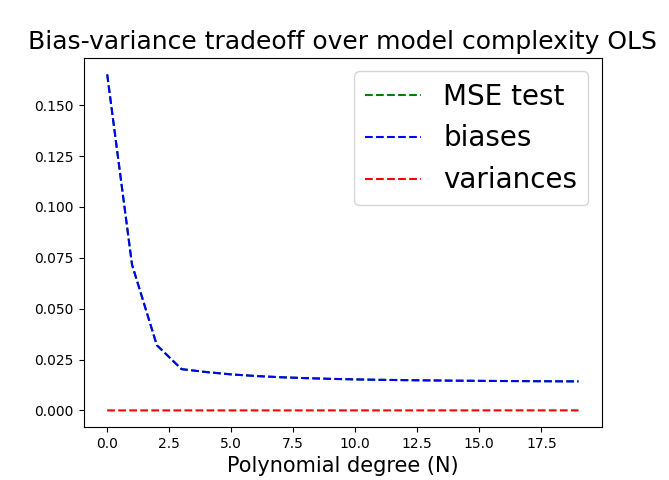
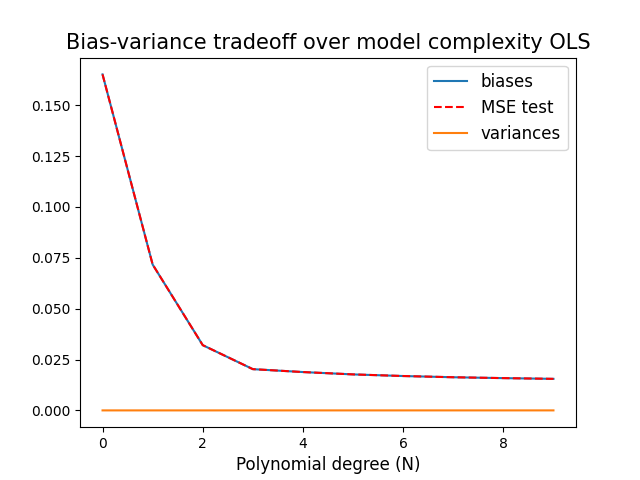
1AM plots real data

diff --git a/src/task_f_msecomparison.py b/src/task_f_msecomparison.py
@@ -1,6 +1,7 @@
 """
 task f: Plots MSE comparison between OLS, ridge and lasso with cross validation for real and synthetic data.
 """
+import numpy as np
 from sklearn.linear_model import Ridge, Lasso
 from sklearn.model_selection import cross_validate, KFold
 
@@ -31,6 +32,14 @@ kfolds = KFold(n_splits=K)
 errors_OLS = np.zeros(N)
 errors_Ridge = np.zeros(N)
 errors_Lasso = np.zeros(N)
+
+min_error_OLS = np.inf
+min_error_Ridge = np.inf
+min_error_Lasso = np.inf
+
+best_poly_OLS = 0
+best_poly_Ridge = 0
+best_poly_Lasso = 0
 
 # test different values of lambda
 for i in range(len(lambdas)):
@@ -76,6 +85,15 @@ for i in range(len(lambdas)):
         )
         errors_Lasso[n] = np.mean(-scores_Lasso["test_score"])
 
+    if min(min_error_OLS, np.min(scores_ols)) == np.min(scores_ols):
+        min_error_OLS = np.min(scores_ols)
+        best_poly_OLS = np.argmin(scores_ols)
+    if min(min_error_Ridge, np.min(scores_Ridge)) == np.min(scores_Ridge):
+        min_error_Ridge = np.min(scores_Ridge)
+        best_poly_Ridge = np.argmin(scores_Ridge)
+    if min(min_error_Lasso, np.min(scores_Lasso)) == np.min(scores_Lasso):
+        min_error_Lasso = np.min(scores_Lasso)
+        best_poly_Lasso = np.argmin(scores_Lasso)
     # plot
     plt.plot(errors_OLS, "r--", label="OLS")
     plt.plot(errors_Ridge, "b--", label="Ridge")
@@ -86,4 +104,7 @@ for i in range(len(lambdas)):
     plt.tight_layout(h_pad=0.001)
     plt.legend()
 
+print(f"Minimal MSE_test value for OLS = {min_error_OLS} for N = {best_poly_OLS}")
+print(f"Minimal MSE_test value for Ridge = {min_error_Ridge} for N = {best_poly_Ridge}")
+print(f"Minimal MSE_test value for Lasso = {min_error_Lasso} for N = {best_poly_Lasso}")
 plt.show()

diff --git a/src/task_c.py b/src/task_c.py
@@ -1,6 +1,8 @@
 """
 task c (and task g): plots bias-variance tradeoff with bootstrap for OLS
 """
+import matplotlib.pyplot as plt
+
 # Our own library of functions
 from utils import *
 
@@ -88,16 +90,17 @@ plt.plot(MSEs_train, label="train implementation", marker="o", markersize=3)
 plt.plot(MSEs_test, label="test implementation", marker="o", markersize=3)
 plt.plot(MSEs_train_sk, "r--", label="train ScikitLearn", marker="o", markersize=3)
 plt.plot(MSEs_test_sk, "g--", label="test ScikitLearn", marker="o", markersize=3)
-plt.xlabel("Polynomial degree (N)")
-plt.title("MSE scores over model complexity")
-plt.legend()
+plt.xlabel("Polynomial degree (N)", size=15)
+plt.ylabel("MSE score", size=15)
+plt.title("MSE scores over model complexity", size=18)
+plt.legend(prop={"size": 12})
 plt.show()
 
 # plot
-plt.plot(MSEs_test, "g--", label="MSE test")
-plt.plot(biases, "b--", label="biases")
-plt.plot(variances, "r--", label="variances")
-plt.xlabel("Polynomial degree (N)", size=15)
-plt.title("Bias-variance tradeoff over model complexity OLS", size=18)
-plt.legend(prop={"size": 20})
+plt.plot(biases, label="bias")
+plt.plot(MSEs_test, "r--", label="MSE test")
+plt.plot(variances, label="variances")
+plt.xlabel("Polynomial degree (N)", size=12)
+plt.title("Bias-variance tradeoff over model complexity OLS", size=15)
+plt.legend(prop={"size": 12})
 plt.show()

diff --git a/src/task_f_biasvariance.py b/src/task_f_biasvariance.py
@@ -43,7 +43,7 @@ for i in range(len(lambdas)):
         plt.suptitle(f"Bias variance tradeoff for lasso regression")
 
     # model under testing
-    model_Lasso = Lasso(lambdas[i], max_iter=1000, fit_intercept=False)
+    model_Lasso = Lasso(lambdas[i], max_iter=500, fit_intercept=False)
 
     # arrays for bias-variance
     errors = np.zeros(N)
@@ -73,21 +73,21 @@ for i in range(len(lambdas)):
         variances[n] = variance
 
     # plot subplots
-    plt.plot(errors, "g--", label="MSE test")
     plt.plot(biases, label="bias")
+    plt.plot(errors, "r--", label="MSE test")
     plt.plot(variances, label="variance")
-    plt.xlabel("Polynomial degree (N)")
+    plt.xlabel("Polynomial degree (N)", size=12)
     plt.tight_layout(h_pad=0.001)
     if plot_only_best_lambda:
         print(
             f"Optimal lambda = {lam}, best MSE = {best_MSE}, best polynomial = {best_poly}"
         )
         plt.title(
-            f"Bias variance tradeoff for lasso regression \n for optimal lambda = {lambdas[i]}"
+            f"Bias variance tradeoff for lasso regression \n for optimal lambda = {lambdas[i]}", size=18
         )
     else:
-        plt.title(f"lambda = {lambdas[i]:.5}")
-    plt.legend()
+        plt.title(f"lambda = {lambdas[i]:.5}", size=15)
+    plt.legend(prop={"size": 10}, loc="center left", bbox_to_anchor=(1, 0.5))
 
 
 plt.show()

diff --git a/src/task_e_biasvariance.py b/src/task_e_biasvariance.py
@@ -72,18 +72,17 @@ for i in range(len(lambdas)):
         variances[n] = variance
 
     # plot
-    plt.plot(errors, label="MSE test")
     plt.plot(biases, label="bias")
+    plt.plot(errors, "r--", label="MSE test")
     plt.plot(variances, label="variance")
-    plt.ylim(0, 0.12)
-    plt.xlabel("Polynomial degree (N)")
+    plt.xlabel("Polynomial degree (N)", size=12)
     plt.tight_layout(h_pad=0.001)
     if plot_only_best_lambda:
         plt.title(
-            f"Bias variance tradeoff for ridge regression for optimal lambda = {lambdas[i]}"
+            f"Bias variance tradeoff for ridge regression for optimal lambda = {lambdas[i]}", size=18
         )
     else:
-        plt.title(f"lambda = {lambdas[i]:.5}")
-    plt.legend()
+        plt.title(f"lambda = {lambdas[i]:.5}", size=15)
+    plt.legend(prop={"size": 10}, loc="center left", bbox_to_anchor=(1, 0.5))
 
 plt.show()

diff --git a/src/task_e_betas.py b/src/task_e_betas.py
@@ -49,9 +49,9 @@ for i in range(len(lambdas)):
             data = betas[beta, :]
             data[data == 0] = np.nan
             plt.plot(data, label=f"beta{beta}", marker="o", markersize=3)
-    plt.xlabel("Polynomial degree (N)")
-    plt.ylabel("Beta value")
-    plt.title("Beta progression")
+    plt.xlabel("Polynomial degree (N)", size=15)
+    plt.ylabel("Beta value", size=15)
+    plt.title("Beta progression", size=18)
     plt.title(f"lambda = {lambdas[i]:.5}")
     plt.legend(loc="center left", bbox_to_anchor=(1, 0.5))
 
